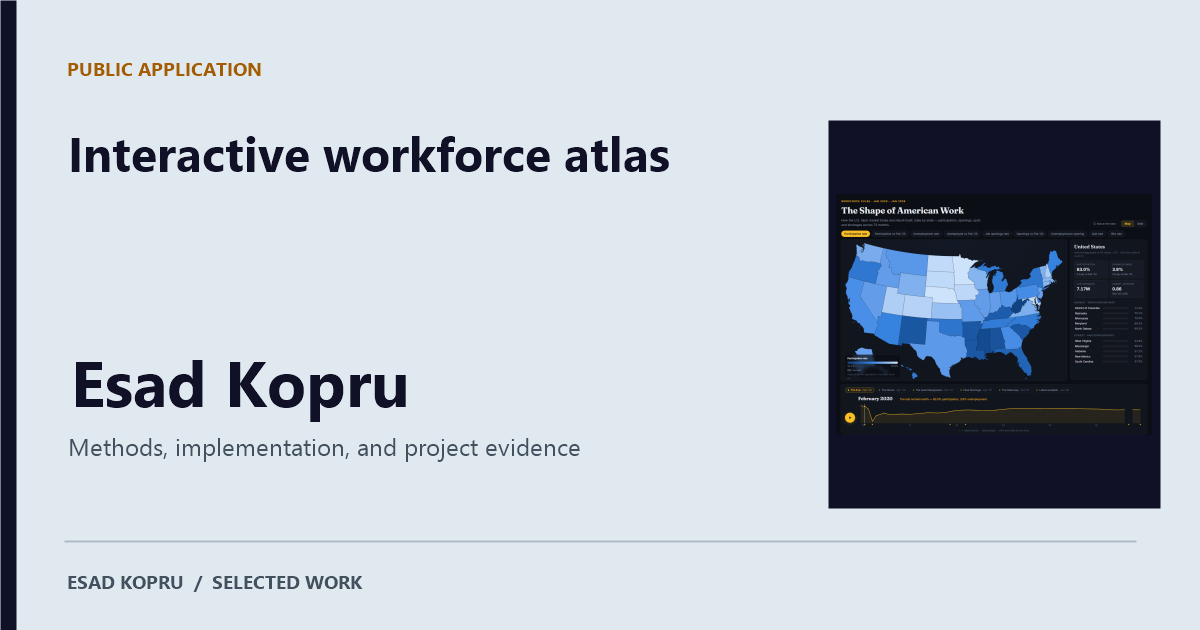
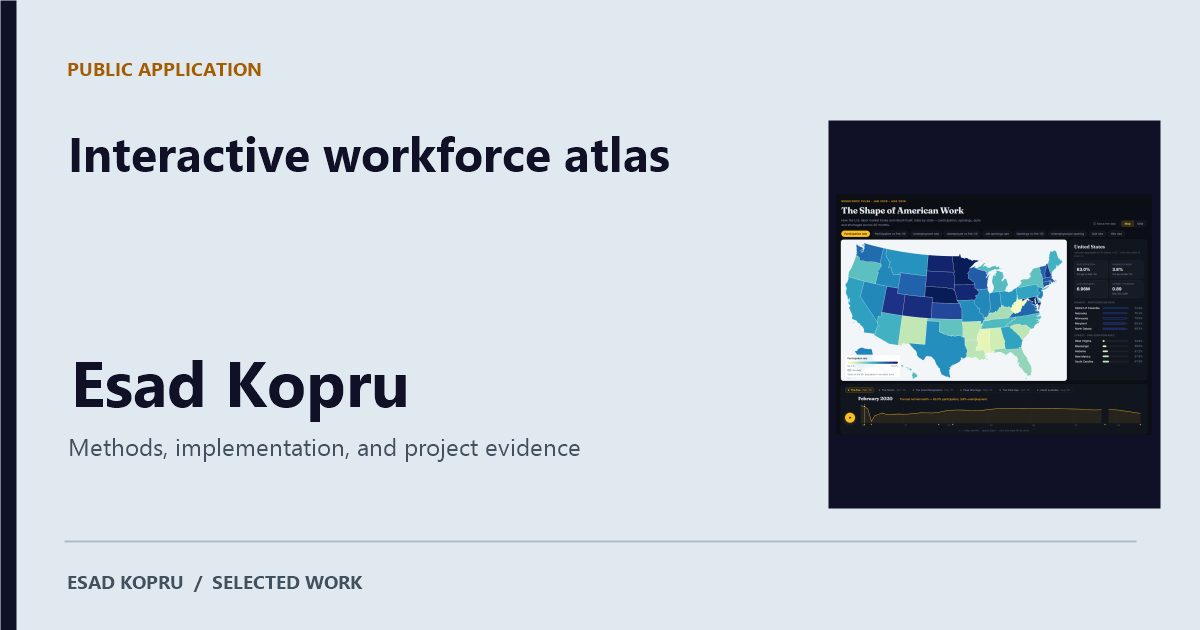
Update the workforce atlas entry for its BLS data rebuild
The atlas (efkopru/workforce-participation b769d10) now covers January 2020 -
August 2026 from current BLS data, with state job openings ending in December
2025, and uses a light yellow-green-blue map. Update the summary, result, and
limits text, replace the gallery screenshot with that commit's
docs/screenshot.png under a new name so caches refresh, pin its source URL,
and regenerate only the atlas sharing card.

Changed region(s): [[0.6783, 0.3619, 0.8942, 0.6032], [0.925, 0.4825, 0.9558, 0.5127]]

diff --git a/workforce-participation/index.html b/workforce-participation/index.html
@@ -3,14 +3,14 @@
 
 <meta charset="utf-8"><meta name="viewport" content="width=device-width, initial-scale=1">
 <title>Interactive workforce atlas | Esad Kopru</title>
-<meta name="description" content="An interactive D3 atlas comparing U.S. state labor-market patterns from January 2020 through January 2026."><meta name="theme-color" content="#e0e9f0"><meta name="referrer" content="strict-origin-when-cross-origin">
+<meta name="description" content="An interactive D3 atlas comparing U.S. state labor-market patterns from January 2020 through August 2026."><meta name="theme-color" content="#e0e9f0"><meta name="referrer" content="strict-origin-when-cross-origin">
 <link rel="canonical" href="https://www.ekopru.com/workforce-participation/">
-<meta property="og:type" content="website"><meta property="og:site_name" content="Esad Kopru"><meta property="og:title" content="Interactive workforce atlas | Esad Kopru"><meta property="og:description" content="An interactive D3 atlas comparing U.S. state labor-market patterns from January 2020 through January 2026."><meta property="og:url" content="https://www.ekopru.com/workforce-participation/"><meta property="og:image" content="https://www.ekopru.com/assets/social/workforce-participation.png?v=eeab90f32718"><meta property="og:image:width" content="1200"><meta property="og:image:height" content="630"><meta property="og:image:type" content="image/png"><meta property="og:image:alt" content="Interactive workforce atlas | Esad Kopru portfolio"><meta name="twitter:card" content="summary_large_image"><meta name="twitter:image" content="https://www.ekopru.com/assets/social/workforce-participation.png?v=eeab90f32718"><meta name="twitter:image:alt" content="Interactive workforce atlas | Esad Kopru portfolio">
+<meta property="og:type" content="website"><meta property="og:site_name" content="Esad Kopru"><meta property="og:title" content="Interactive workforce atlas | Esad Kopru"><meta property="og:description" content="An interactive D3 atlas comparing U.S. state labor-market patterns from January 2020 through August 2026."><meta property="og:url" content="https://www.ekopru.com/workforce-participation/"><meta property="og:image" content="https://www.ekopru.com/assets/social/workforce-participation.png?v=471ea39b62b8"><meta property="og:image:width" content="1200"><meta property="og:image:height" content="630"><meta property="og:image:type" content="image/png"><meta property="og:image:alt" content="Interactive workforce atlas | Esad Kopru portfolio"><meta name="twitter:card" content="summary_large_image"><meta name="twitter:image" content="https://www.ekopru.com/assets/social/workforce-participation.png?v=471ea39b62b8"><meta name="twitter:image:alt" content="Interactive workforce atlas | Esad Kopru portfolio">
 <link rel="icon" href="../assets/efk-logo.avif"><script src="../theme.js?v=142a06c810bf"></script><link rel="stylesheet" href="../styles.css?v=7adffb9b357b"><script src="../script.js?v=e46793e6cab5" defer></script>
 <script type="application/ld+json">{"@context":"https://schema.org","@type":"ProfilePage","name":"Interactive workforce atlas | Esad Kopru","url":"https://www.ekopru.com/workforce-participation/","mainEntity":{"@type":"Person","name":"Esad Kopru","url":"https://www.ekopru.com","sameAs":["https://github.com/efkopru"],"knowsAbout":["Geospatial data science","Geospatial data engineering","Geospatial software engineering"],"alumniOf":[{"@type":"CollegeOrUniversity","name":"The University of Texas at Dallas"}]}}</script>
 </head><body data-root="../"><a class="skip-link" href="#main">Skip to content</a>
 <header class="site-header"><div class="shell header-inner"><a class="brand" href="../index.html" aria-label="Esad Kopru home"><img src="../assets/efk-logo.avif" width="101" height="48" alt="EFK Portfolio"></a><button class="menu-toggle" type="button" aria-expanded="false" aria-controls="site-nav" hidden>Menu</button><nav id="site-nav" class="site-nav site-nav--main-only" aria-label="Main navigation"><a href="../index.html">Home</a><a href="../contact/index.html">Contact</a><a href="../resume/index.html">Resume</a><div class="nav-group"><div class="nav-heading"><a href="../spatial-and-data-analysis/index.html">Spatial &amp; Data Analysis</a><button type="button" class="nav-disclosure" aria-label="Toggle Spatial &amp; Data Analysis project menu" aria-expanded="false" aria-controls="nav-spatial-and-data-analysis"><span aria-hidden="true">▾</span></button></div><div class="dropdown" id="nav-spatial-and-data-analysis"><a href="../spatial-and-data-analysis/index.html">Overview</a><a href="../spatial-analysis/index.html">Spatial Analysis</a><a href="../arcgis-enterprise-and-online/index.html">ArcGIS Enterprise and Online</a><a href="../qgis/index.html">QGIS</a><a href="../code-enforcement-violations/index.html">Code Enforcement Violations</a><a href="../crime-analysis/index.html">Crime Analysis</a><a href="../accessibility-analysis/index.html">Measuring access to community amenities</a><a href="../ground-patrol-analytics/index.html">Ground patrol analytics and inspection priorities</a></div></div><div class="nav-group"><div class="nav-heading"><a href="../ml-optimization/index.html">ML / Optimization</a><button type="button" class="nav-disclosure" aria-label="Toggle ML / Optimization project menu" aria-expanded="false" aria-controls="nav-ml-optimization"><span aria-hidden="true">▾</span></button></div><div class="dropdown" id="nav-ml-optimization"><a href="../ml-optimization/index.html">Overview</a><a href="../income-level-prediction-using-r/index.html">Income Level Prediction using R</a><a href="../building-footprint-extraction/index.html">Building Footprint Extraction</a><a href="../traveling-salesman/index.html">Traveling Salesman</a><a href="../water-conservation-routes/index.html">Water Conservation Routes</a><a href="../lead-service-line-evidence-workbench/index.html">Lead Service Line Evidence Workbench</a><a href="../lead-service-review-prototype/index.html">Lead pipe prediction prototype</a></div></div><div class="nav-group"><div class="nav-heading"><a href="../development-and-etl/index.html">Development &amp; ETL</a><button type="button" class="nav-disclosure" aria-label="Toggle Development &amp; ETL project menu" aria-expanded="false" aria-controls="nav-development-and-etl"><span aria-hidden="true">▾</span></button></div><div class="dropdown" id="nav-development-and-etl"><a href="../development-and-etl/index.html">Overview</a><a href="../python-and-notebooks/index.html">Python Scripts &amp; Notebooks</a><a href="../sql-and-javascript-and-r/index.html">SQL &amp; JavaScript &amp; R</a><a href="../modelbuilder-and-arcmap-tool-in-vbnet/index.html">ModelBuilder &amp; ArcMap tool in VB.NET</a><a href="../interactive-maps-a-custom-js-app/index.html">Interactive Maps - A custom JS App</a><a href="../interactive-maps-experience-builder/index.html">Interactive Maps - Experience Builder</a><a href="../utility-inspection-etl/index.html">Utility inspection data pipeline</a><a href="../workforce-participation/index.html" aria-current="page">Interactive workforce atlas</a><a href="../geospatial-processing-tools/index.html">Raster and document processing utilities</a><a href="../parcel-data-integration/index.html">Automated parcel integration and publishing</a></div></div><a href="../doctoral-research/index.html">Doctoral Research</a></nav></div></header><div class="rule" aria-hidden="true"></div>
 <div class="theme-toolbar shell" data-theme-toolbar hidden><button class="theme-toggle" type="button" role="switch" aria-checked="false" data-theme-toggle><span class="theme-toggle-label">Dark mode</span><span class="theme-toggle-track" aria-hidden="true"><span class="theme-toggle-thumb"></span></span><span class="theme-toggle-state" data-theme-state aria-hidden="true">Off</span></button></div>
-<main id="main" tabindex="-1"><div class="shell detail"><nav class="breadcrumbs" aria-label="Breadcrumb"><a href="../index.html#projects">Projects</a><span aria-hidden="true">/</span><a href="../development-and-etl/index.html">Development &amp; ETL</a></nav><header class="project-heading"><h1>Interactive workforce atlas</h1><p>An interactive D3 atlas comparing U.S. state labor-market patterns from January 2020 through January 2026.</p><div class="project-links"><a class="text-link" href="https://efkopru.github.io/workforce-participation/" rel="noopener noreferrer">Open interactive atlas <span aria-hidden="true">↗</span></a><a class="text-link" href="https://github.com/efkopru/workforce-participation" rel="noopener noreferrer">View source on GitHub <span aria-hidden="true">↗</span></a></div></header><section class="case-overview" aria-label="Project overview"><h2>What I did</h2><p>I built an atlas with geographic and tile-grid maps, linked trend charts, time controls, state profiles, and shareable views.</p><p class="case-result"><strong>Result:</strong> The published application covers 50 states and Washington, DC across 73 monthly periods. Visitors can compare metrics, animate the timeline, inspect state trends, and share a selected view. The app and source are available on GitHub.</p><div class="case-tools"><h2>Tools</h2><ul class="chips" aria-label="Technologies"><li>JavaScript</li><li>D3</li><li>TopoJSON</li><li>Data visualization</li><li>Interactive maps</li></ul></div><p class="evidence-note">The app uses a fixed dataset snapshot, not a continuously updated feed. Missing observations remain visible as gaps.</p></section><section class="project-gallery" aria-labelledby="screenshots-heading"><div class="gallery-heading"><h2 id="screenshots-heading">Project gallery</h2><p>Screenshot from the published workforce atlas. 1 images. Select an image to view it full size.</p></div><section class="gallery-group" id="gallery-workforce-participation"><div class="screenshot-grid"><figure id="screenshot-workforce-participation-screenshot-v2"><a data-image-viewer href="../assets/screenshots/workforce-participation-screenshot-v2.png" data-caption="Published U.S. workforce atlas, January 2020 to January 2026" aria-label="Open image: Published U.S. workforce atlas, January 2020 to January 2026"><img src="../assets/screenshots/workforce-participation-screenshot-v2.png" width="1440" height="1100" alt="Published U.S. workforce atlas, January 2020 to January 2026" loading="lazy" decoding="async"></a><figcaption>Published U.S. workforce atlas, January 2020 to January 2026</figcaption></figure></div></section></section><details class="project-details case-details"><summary>Technical details</summary><p class="case-context">Independent portfolio project</p><p>A single static chart makes it difficult to compare changes across states, dates, and labor-market indicators.</p><ul><li>Read the monthly CSV snapshot and preserve missing observations as gaps.</li><li>Calculate national rates from summed state counts instead of averaging state percentages.</li><li>Keep color scales fixed across the time series so map colors remain comparable during animation.</li><li>Synchronize the metric, month, selected state, and map view through a shared application state and URL hash.</li></ul></details><p class="back-link"><a href="../index.html#projects">← Back to projects</a></p></div></main>
+<main id="main" tabindex="-1"><div class="shell detail"><nav class="breadcrumbs" aria-label="Breadcrumb"><a href="../index.html#projects">Projects</a><span aria-hidden="true">/</span><a href="../development-and-etl/index.html">Development &amp; ETL</a></nav><header class="project-heading"><h1>Interactive workforce atlas</h1><p>An interactive D3 atlas comparing U.S. state labor-market patterns from January 2020 through August 2026.</p><div class="project-links"><a class="text-link" href="https://efkopru.github.io/workforce-participation/" rel="noopener noreferrer">Open interactive atlas <span aria-hidden="true">↗</span></a><a class="text-link" href="https://github.com/efkopru/workforce-participation" rel="noopener noreferrer">View source on GitHub <span aria-hidden="true">↗</span></a></div></header><section class="case-overview" aria-label="Project overview"><h2>What I did</h2><p>I built an atlas with geographic and tile-grid maps, linked trend charts, time controls, state profiles, and shareable views.</p><p class="case-result"><strong>Result:</strong> The published application covers 50 states and Washington, DC across 80 monthly periods of Bureau of Labor Statistics data. Visitors can compare metrics, animate the timeline, inspect state trends, and share a selected view. The app and source are available on GitHub.</p><div class="case-tools"><h2>Tools</h2><ul class="chips" aria-label="Technologies"><li>JavaScript</li><li>D3</li><li>TopoJSON</li><li>Data visualization</li><li>Interactive maps</li></ul></div><p class="evidence-note">The app uses a BLS data snapshot rebuilt in September 2026, not a live feed. State job-openings data end in December 2025 because BLS publishes them annually, and missing observations remain visible as gaps.</p></section><section class="project-gallery" aria-labelledby="screenshots-heading"><div class="gallery-heading"><h2 id="screenshots-heading">Project gallery</h2><p>Screenshot from the published workforce atlas. 1 images. Select an image to view it full size.</p></div><section class="gallery-group" id="gallery-workforce-participation"><div class="screenshot-grid"><figure id="screenshot-workforce-participation-screenshot-v3"><a data-image-viewer href="../assets/screenshots/workforce-participation-screenshot-v3.png" data-caption="Published U.S. workforce atlas, January 2020 to August 2026" aria-label="Open image: Published U.S. workforce atlas, January 2020 to August 2026"><img src="../assets/screenshots/workforce-participation-screenshot-v3.png" width="1440" height="1100" alt="Published U.S. workforce atlas, January 2020 to August 2026" loading="lazy" decoding="async"></a><figcaption>Published U.S. workforce atlas, January 2020 to August 2026</figcaption></figure></div></section></section><details class="project-details case-details"><summary>Technical details</summary><p class="case-context">Independent portfolio project</p><p>A single static chart makes it difficult to compare changes across states, dates, and labor-market indicators.</p><ul><li>Read the monthly CSV snapshot and preserve missing observations as gaps.</li><li>Calculate national rates from summed state counts instead of averaging state percentages.</li><li>Keep color scales fixed across the time series so map colors remain comparable during animation.</li><li>Synchronize the metric, month, selected state, and map view through a shared application state and URL hash.</li></ul></details><p class="back-link"><a href="../index.html#projects">← Back to projects</a></p></div></main>
 <div class="rule" aria-hidden="true"></div><footer class="site-footer"><div class="shell footer-inner"><p>All rights reserved © EK 2026</p></div></footer>
 <dialog class="image-viewer" aria-labelledby="viewer-title"><div class="viewer-header"><h2 id="viewer-title">Image viewer</h2><button type="button" data-viewer-close autofocus>Close <span aria-hidden="true">×</span></button></div><div class="viewer-controls" role="group" aria-label="Image controls"><div class="viewer-zoom-controls" role="group" aria-label="Zoom"><button type="button" data-zoom-out aria-label="Zoom out">− Zoom out</button><output class="zoom-level" aria-live="polite">100%</output><button type="button" data-zoom-in aria-label="Zoom in">+ Zoom in</button></div><div class="viewer-fit-controls"><button type="button" data-zoom-reset><svg aria-hidden="true" width="18" height="18" viewBox="0 0 24 24" fill="none" stroke="currentColor" stroke-width="1.8"><path d="M9 3H3v6m12-6h6v6M3 15v6h6m12-6v6h-6"/><rect x="7" y="7" width="10" height="10" rx="1"/></svg>Fit to screen</button></div></div><p class="viewer-status" role="status"></p><div class="viewer-viewport" tabindex="0" aria-label="Image; scroll to pan when zoomed"><img class="viewer-image" alt=""></div><p class="viewer-caption"></p></dialog></body></html>

diff --git a/development-and-etl/index.html b/development-and-etl/index.html
@@ -11,6 +11,6 @@
 </head><body data-root="../"><a class="skip-link" href="#main">Skip to content</a>
 <header class="site-header"><div class="shell header-inner"><a class="brand" href="../index.html" aria-label="Esad Kopru home"><img src="../assets/efk-logo.avif" width="101" height="48" alt="EFK Portfolio"></a><button class="menu-toggle" type="button" aria-expanded="false" aria-controls="site-nav" hidden>Menu</button><nav id="site-nav" class="site-nav site-nav--main-only" aria-label="Main navigation"><a href="../index.html">Home</a><a href="../contact/index.html">Contact</a><a href="../resume/index.html">Resume</a><div class="nav-group"><div class="nav-heading"><a href="../spatial-and-data-analysis/index.html">Spatial &amp; Data Analysis</a><button type="button" class="nav-disclosure" aria-label="Toggle Spatial &amp; Data Analysis project menu" aria-expanded="false" aria-controls="nav-spatial-and-data-analysis"><span aria-hidden="true">▾</span></button></div><div class="dropdown" id="nav-spatial-and-data-analysis"><a href="../spatial-and-data-analysis/index.html">Overview</a><a href="../spatial-analysis/index.html">Spatial Analysis</a><a href="../arcgis-enterprise-and-online/index.html">ArcGIS Enterprise and Online</a><a href="../qgis/index.html">QGIS</a><a href="../code-enforcement-violations/index.html">Code Enforcement Violations</a><a href="../crime-analysis/index.html">Crime Analysis</a><a href="../accessibility-analysis/index.html">Measuring access to community amenities</a><a href="../ground-patrol-analytics/index.html">Ground patrol analytics and inspection priorities</a></div></div><div class="nav-group"><div class="nav-heading"><a href="../ml-optimization/index.html">ML / Optimization</a><button type="button" class="nav-disclosure" aria-label="Toggle ML / Optimization project menu" aria-expanded="false" aria-controls="nav-ml-optimization"><span aria-hidden="true">▾</span></button></div><div class="dropdown" id="nav-ml-optimization"><a href="../ml-optimization/index.html">Overview</a><a href="../income-level-prediction-using-r/index.html">Income Level Prediction using R</a><a href="../building-footprint-extraction/index.html">Building Footprint Extraction</a><a href="../traveling-salesman/index.html">Traveling Salesman</a><a href="../water-conservation-routes/index.html">Water Conservation Routes</a><a href="../lead-service-line-evidence-workbench/index.html">Lead Service Line Evidence Workbench</a><a href="../lead-service-review-prototype/index.html">Lead pipe prediction prototype</a></div></div><div class="nav-group"><div class="nav-heading"><a href="../development-and-etl/index.html" aria-current="page">Development &amp; ETL</a><button type="button" class="nav-disclosure" aria-label="Toggle Development &amp; ETL project menu" aria-expanded="false" aria-controls="nav-development-and-etl"><span aria-hidden="true">▾</span></button></div><div class="dropdown" id="nav-development-and-etl"><a href="../development-and-etl/index.html" aria-current="page">Overview</a><a href="../python-and-notebooks/index.html">Python Scripts &amp; Notebooks</a><a href="../sql-and-javascript-and-r/index.html">SQL &amp; JavaScript &amp; R</a><a href="../modelbuilder-and-arcmap-tool-in-vbnet/index.html">ModelBuilder &amp; ArcMap tool in VB.NET</a><a href="../interactive-maps-a-custom-js-app/index.html">Interactive Maps - A custom JS App</a><a href="../interactive-maps-experience-builder/index.html">Interactive Maps - Experience Builder</a><a href="../utility-inspection-etl/index.html">Utility inspection data pipeline</a><a href="../workforce-participation/index.html">Interactive workforce atlas</a><a href="../geospatial-processing-tools/index.html">Raster and document processing utilities</a><a href="../parcel-data-integration/index.html">Automated parcel integration and publishing</a></div></div><a href="../doctoral-research/index.html">Doctoral Research</a></nav></div></header><div class="rule" aria-hidden="true"></div>
 <div class="theme-toolbar shell" data-theme-toolbar hidden><button class="theme-toggle" type="button" role="switch" aria-checked="false" data-theme-toggle><span class="theme-toggle-label">Dark mode</span><span class="theme-toggle-track" aria-hidden="true"><span class="theme-toggle-thumb"></span></span><span class="theme-toggle-state" data-theme-state aria-hidden="true">Off</span></button></div>
-<main id="main" tabindex="-1"><div class="shell text-page"><h1>Development &amp; ETL</h1><p>Development and automation:</p><ol class="collection-list"><li><a href="../python-and-notebooks/index.html">Python Scripts &amp; Notebooks</a><p class="collection-summary"><span class="collection-type">Professional work.</span> Automating repetitive GIS tasks with Python, FME, and SQL.</p></li><li><a href="../sql-and-javascript-and-r/index.html">SQL &amp; JavaScript &amp; R</a><p class="collection-summary">SQL scripts, JavaScript applications, and data analysis in R.</p></li><li><a href="../modelbuilder-and-arcmap-tool-in-vbnet/index.html">ModelBuilder &amp; ArcMap tool in VB.NET</a><p class="collection-summary">Tools built with ModelBuilder and VB.NET to automate ArcGIS tasks.</p></li><li><a href="../interactive-maps-a-custom-js-app/index.html">Interactive Maps - A custom JS App</a><p class="collection-summary"><span class="collection-type">Professional work.</span> A public city map with nine new widgets and updated web components.</p></li><li><a href="../interactive-maps-experience-builder/index.html">Interactive Maps - Experience Builder</a><p class="collection-summary">A public map built with ArcGIS Experience Builder for large-screen displays.</p></li><li><a href="../utility-inspection-etl/index.html">Utility inspection data pipeline</a><p class="collection-summary"><span class="collection-type">Professional work.</span> Automating flight-track processing and utility inspection data updates in enterprise GIS.</p></li><li><a href="../workforce-participation/index.html">Interactive workforce atlas</a><p class="collection-summary"><span class="collection-type">Public application.</span> An interactive D3 atlas comparing U.S. state labor-market patterns from January 2020 through January 2026.</p></li><li><a href="../geospatial-processing-tools/index.html">Raster and document processing utilities</a><p class="collection-summary"><span class="collection-type">Public code.</span> Python tools for converting PDF pages and preparing raster-processing dependencies.</p></li><li><a href="../parcel-data-integration/index.html">Automated parcel integration and publishing</a><p class="collection-summary"><span class="collection-type">Professional work.</span> Two county data sources, recurring spatial checks, and a shared municipal GIS publishing workflow.</p></li></ol><p class="back-link"><a href="../index.html#projects">← Back to projects</a></p></div></main>
+<main id="main" tabindex="-1"><div class="shell text-page"><h1>Development &amp; ETL</h1><p>Development and automation:</p><ol class="collection-list"><li><a href="../python-and-notebooks/index.html">Python Scripts &amp; Notebooks</a><p class="collection-summary"><span class="collection-type">Professional work.</span> Automating repetitive GIS tasks with Python, FME, and SQL.</p></li><li><a href="../sql-and-javascript-and-r/index.html">SQL &amp; JavaScript &amp; R</a><p class="collection-summary">SQL scripts, JavaScript applications, and data analysis in R.</p></li><li><a href="../modelbuilder-and-arcmap-tool-in-vbnet/index.html">ModelBuilder &amp; ArcMap tool in VB.NET</a><p class="collection-summary">Tools built with ModelBuilder and VB.NET to automate ArcGIS tasks.</p></li><li><a href="../interactive-maps-a-custom-js-app/index.html">Interactive Maps - A custom JS App</a><p class="collection-summary"><span class="collection-type">Professional work.</span> A public city map with nine new widgets and updated web components.</p></li><li><a href="../interactive-maps-experience-builder/index.html">Interactive Maps - Experience Builder</a><p class="collection-summary">A public map built with ArcGIS Experience Builder for large-screen displays.</p></li><li><a href="../utility-inspection-etl/index.html">Utility inspection data pipeline</a><p class="collection-summary"><span class="collection-type">Professional work.</span> Automating flight-track processing and utility inspection data updates in enterprise GIS.</p></li><li><a href="../workforce-participation/index.html">Interactive workforce atlas</a><p class="collection-summary"><span class="collection-type">Public application.</span> An interactive D3 atlas comparing U.S. state labor-market patterns from January 2020 through August 2026.</p></li><li><a href="../geospatial-processing-tools/index.html">Raster and document processing utilities</a><p class="collection-summary"><span class="collection-type">Public code.</span> Python tools for converting PDF pages and preparing raster-processing dependencies.</p></li><li><a href="../parcel-data-integration/index.html">Automated parcel integration and publishing</a><p class="collection-summary"><span class="collection-type">Professional work.</span> Two county data sources, recurring spatial checks, and a shared municipal GIS publishing workflow.</p></li></ol><p class="back-link"><a href="../index.html#projects">← Back to projects</a></p></div></main>
 <div class="rule" aria-hidden="true"></div><footer class="site-footer"><div class="shell footer-inner"><p>All rights reserved © EK 2026</p></div></footer>
 <dialog class="image-viewer" aria-labelledby="viewer-title"><div class="viewer-header"><h2 id="viewer-title">Image viewer</h2><button type="button" data-viewer-close autofocus>Close <span aria-hidden="true">×</span></button></div><div class="viewer-controls" role="group" aria-label="Image controls"><div class="viewer-zoom-controls" role="group" aria-label="Zoom"><button type="button" data-zoom-out aria-label="Zoom out">− Zoom out</button><output class="zoom-level" aria-live="polite">100%</output><button type="button" data-zoom-in aria-label="Zoom in">+ Zoom in</button></div><div class="viewer-fit-controls"><button type="button" data-zoom-reset><svg aria-hidden="true" width="18" height="18" viewBox="0 0 24 24" fill="none" stroke="currentColor" stroke-width="1.8"><path d="M9 3H3v6m12-6h6v6M3 15v6h6m12-6v6h-6"/><rect x="7" y="7" width="10" height="10" rx="1"/></svg>Fit to screen</button></div></div><p class="viewer-status" role="status"></p><div class="viewer-viewport" tabindex="0" aria-label="Image; scroll to pan when zoomed"><img class="viewer-image" alt=""></div><p class="viewer-caption"></p></dialog></body></html>
